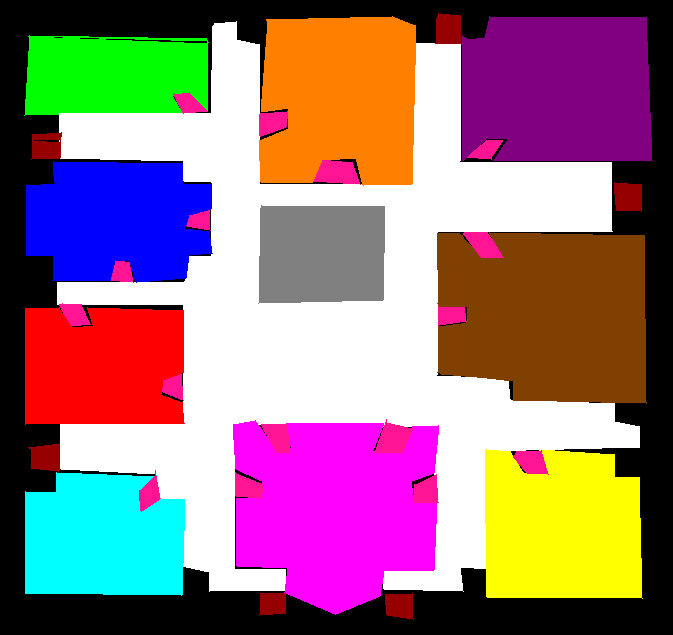
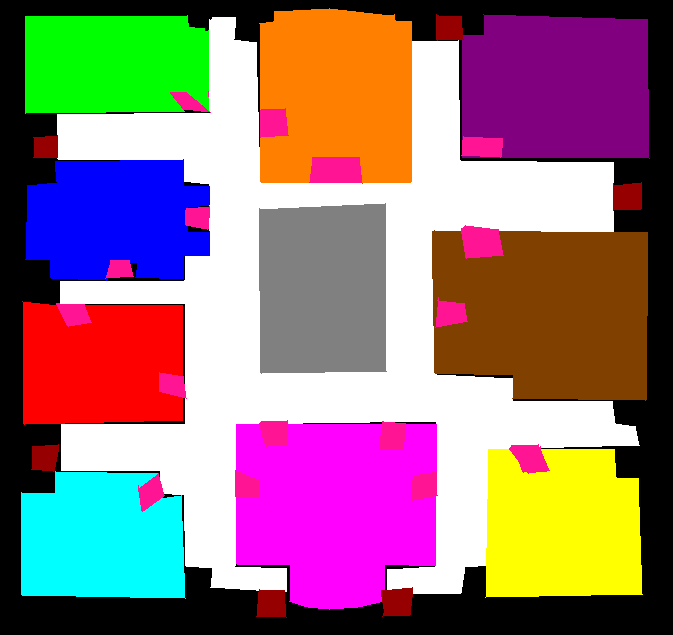
1.fixed secret passage logic 2. fixed door to room relationships (can not use any door to enter any room anymore)

diff --git a/cluedo_game_setup.py b/cluedo_game_setup.py
@@ -23,8 +23,8 @@ CHARACTERS = {
 }
 
 SECRET_PASSAGES = {
-    (0, 0): (23, 24), (23, 24): (0, 0),
-    (23, 0): (0, 24), (0, 24): (23, 0),
+    (2, 4): (25, 28), (25, 28): (2, 4),
+    (31, 7): (3, 24), (3, 24): (31, 7),
 }
 
 COLOR_TO_ROOM = {
@@ -36,6 +36,10 @@ COLOR_TO_ROOM = {
     (128, 128, 128): "CENTER", (255, 20, 147): "DOOR",
     (150, 0, 0): "START"
 }
+
+# Temporary fix for mask tiles that should be doors but are not colored as DOOR.
+# Study entrance at (9, 5) is currently painted as wall in board_mask.png.
+FORCED_DOOR_CELLS = {(9, 5)}
 
 class CluedoGame:
     def __init__(self):
@@ -56,6 +60,7 @@ class CluedoGame:
         self.grid_height = self.board_height // CELL_SIZE
         
         self.grid = self._create_grid()
+        self.door_to_rooms = self._build_door_room_map()
         self.characters = CHARACTERS
         self.show_rooms = False
         self.show_grid = True  # Added state for grid toggle
@@ -71,6 +76,9 @@ class CluedoGame:
                 color = self.mask_image.get_at((pixel_x, pixel_y))[:3]
                 room_type = COLOR_TO_ROOM.get(color, "WALL")
 
+                if (gx, gy) in FORCED_DOOR_CELLS:
+                    room_type = "DOOR"
+
                 row.append({
                     "type": room_type,
                     "walkable": room_type in ["HALLWAY", "DOOR", "START"],
@@ -79,27 +87,70 @@ class CluedoGame:
             grid.append(row)
         return grid
 
+    def _build_door_room_map(self):
+        """Map each door cell to the room(s) it actually connects to by adjacency."""
+        door_map = {}
+        directions = [(-1, 0), (1, 0), (0, -1), (0, 1)]
+
+        for gy in range(self.grid_height):
+            for gx in range(self.grid_width):
+                if self.grid[gy][gx]["type"] != "DOOR":
+                    continue
+
+                connected_rooms = set()
+                for dx, dy in directions:
+                    nx, ny = gx + dx, gy + dy
+                    if 0 <= nx < self.grid_width and 0 <= ny < self.grid_height:
+                        neighbor = self.grid[ny][nx]
+                        if neighbor["is_room"]:
+                            connected_rooms.add(neighbor["type"])
+
+                door_map[(gx, gy)] = connected_rooms
+
+        return door_map
+
     def handle_move(self, target_gx, target_gy):
         if not (0 <= target_gx < self.grid_width and 0 <= target_gy < self.grid_height):
             return
 
         char = self.characters[self.current_turn]
         current_gx, current_gy = char["position"]
+        current_cell = self.grid[current_gy][current_gx]
         target_cell = self.grid[target_gy][target_gx]
 
-        # Secret Passage Logic
+        # --- CORRECTED SECRET PASSAGE LOGIC ---
+        # 1. Check if the player is currently standing on a secret passage tile
         if (current_gx, current_gy) in SECRET_PASSAGES:
-            char["position"] = SECRET_PASSAGES[(current_gx, current_gy)]
+            dest_gx, dest_gy = SECRET_PASSAGES[(current_gx, current_gy)]
+            
+            # 2. ONLY teleport if they click the EXACT destination tile
+            # (Or click anywhere inside the destination room)
+            if (target_gx, target_gy) == (dest_gx, dest_gy):
+                char["position"] = (dest_gx, dest_gy)
+                print(f"{self.current_turn} used the Secret Passage to {target_cell['type']}!")
+                # In Cluedo, using a passage ends your movement turn
+                self.next_turn() 
+                return 
+
+        # --- STANDARD MOVEMENT LOGIC ---
+        # If we didn't teleport, check if the click was a valid walk move
+        if target_cell["type"] == "WALL": 
             return
-
-        # Basic Move Validation
-        if target_cell["type"] == "WALL": return
         
+        # Room Entry Logic (Must be on a DOOR to enter)
         if target_cell["is_room"]:
-            if self.grid[current_gy][current_gx]["type"] != "DOOR":
-                return # Can't enter room unless on a door
+            if current_cell["type"] != "DOOR":
+                print("You must use a door to enter a room!")
+                return
 
+            connected_rooms = self.door_to_rooms.get((current_gx, current_gy), set())
+            if target_cell["type"] not in connected_rooms:
+                print(f"This door does not lead to {target_cell['type']}!")
+                return
+
+        # Update position
         char["position"] = (target_gx, target_gy)
+        print(f"Moved {self.current_turn} to {target_cell['type']}")
 
     def draw(self):
         self.screen.fill((0, 0, 0))

diff --git a/board_mask_script.py b/board_mask_script.py
@@ -53,12 +53,11 @@ while running:
     
     # Draw mask with transparency so you can see the board underneath
     overlay = mask_surface.copy()
-    overlay.set_alpha(160) 
+    overlay.set_alpha(0) 
     screen.blit(overlay, (0, 0))
     
     # UI Overlay
     status_text = font.render(f"Tool: {current_room_name} | Color: {current_color}", True, (255, 255, 255))
-    pygame.draw.rect(screen, (0,0,0), (5, 5, 400, 30))
     screen.blit(status_text, (10, 10))
 
     for event in pygame.event.get():
